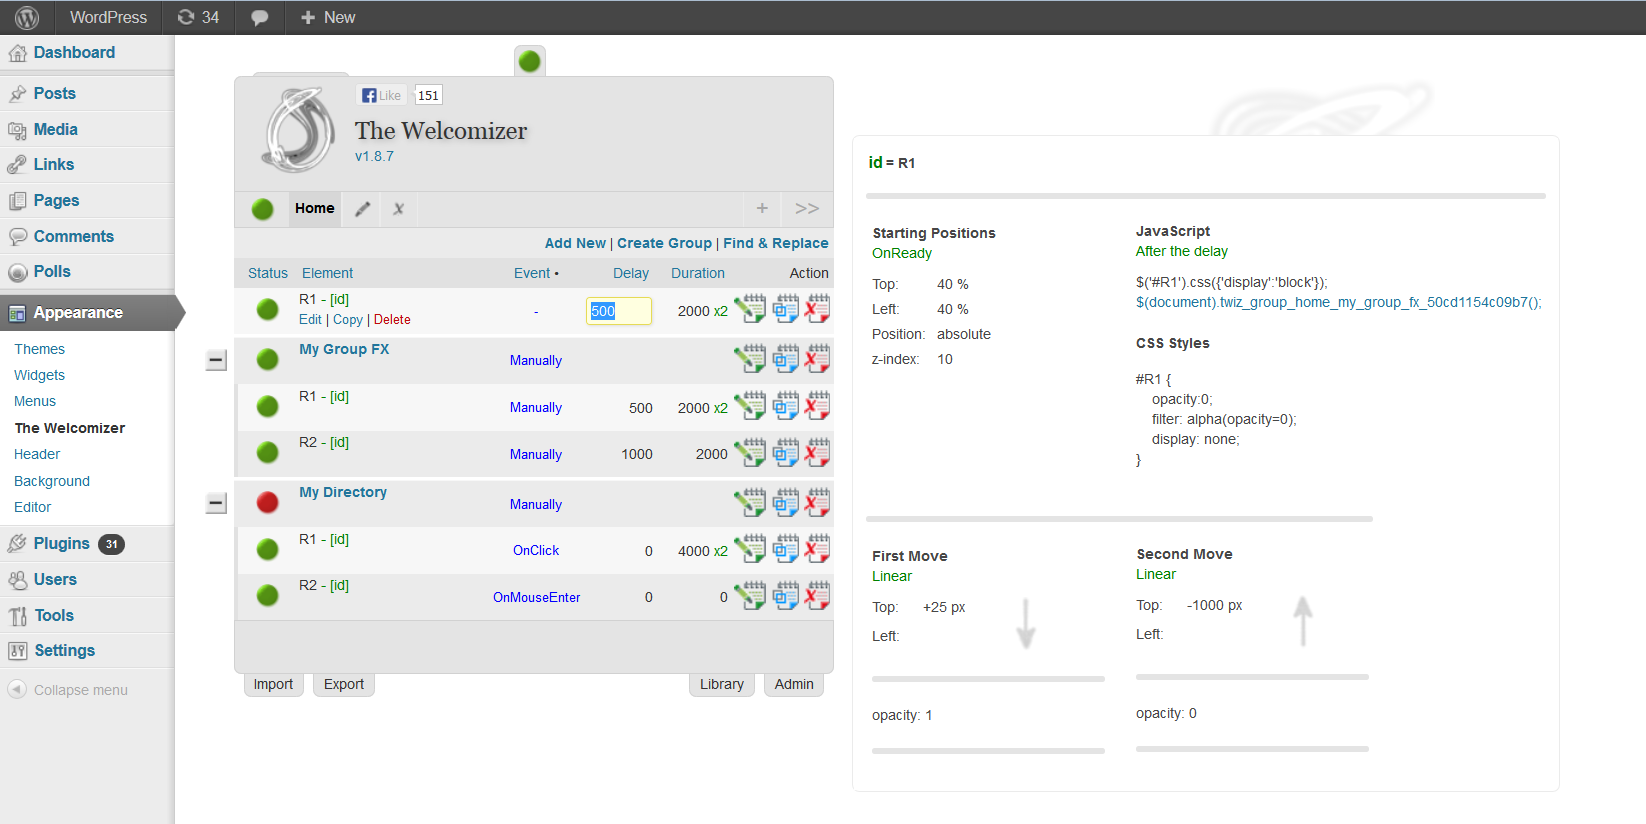
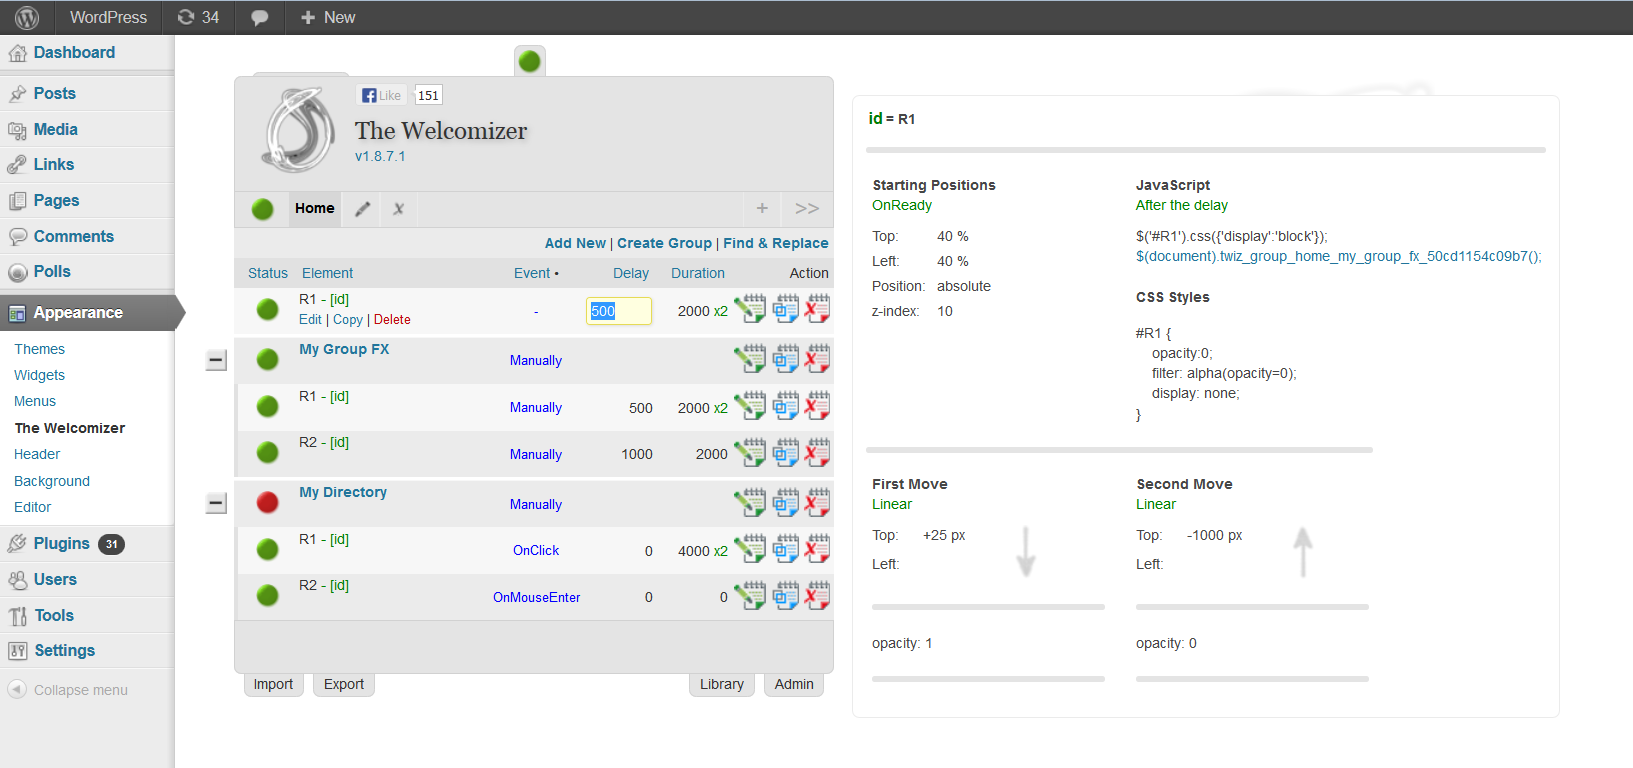
v1.8.7.1
git-svn-id: https://plugins.svn.wordpress.org/the-welcomizer/trunk@712215 b8457f37-d9ea-0310-8a92-e5e31aec5664

diff --git a/skins/_default/twiz-style.css b/skins/_default/twiz-style.css
@@ -614,14 +614,14 @@ div a:hover, td a:hover {
 .twiz-add-element {
    color: #AAAAAA;
 }
-.twiz-table-form, 
-.twiz-table-view {
+.twiz-table-form {
     background-color: #ffffff;    
     padding-top: 10px;
     padding-bottom: 12px;
 }
 .twiz-table-form hr, 
-.twiz-table-view hr {
+.twiz-table-view hr ,
+.twiz-table-view-b hr {
     border-radius: 2px 2px 2px 2px;
     -moz-border-radius-topleft: 2px;
     -moz-border-radius-topright: 2px;
@@ -769,12 +769,16 @@ div a:hover, td a:hover {
     margin-right: 5px;
 }
 .twiz-table-view {
-    padding: 10px;
+    padding: 10px 10px 0px 10px;
+    margin: 1px;
+}
+.twiz-table-view-b {
+    padding: 0px 10px 10px 10px;
     margin: 1px;
 }
 .twiz-view-td-left {
     width: 200px;
-    padding: 2px 20px 2px 2px;
+    padding: 0px 20px 0px 2px;
     font-size: 13px;
 }
 .twiz-view-td-right {

diff --git a/skins/green/twiz-style.css b/skins/green/twiz-style.css
@@ -611,14 +611,14 @@ div a:hover, td a:hover {
 .twiz-add-element {
    color: #AAAAAA;
 }
-.twiz-table-form, 
-.twiz-table-view {
+.twiz-table-form {
     background-color: #ffffff;   
     padding-top: 10px;
     padding-bottom: 12px;
 }
 .twiz-table-form hr, 
-.twiz-table-view hr {
+.twiz-table-view hr ,
+.twiz-table-view-b hr {
     border-radius: 2px 2px 2px 2px;
     -moz-border-radius-topleft: 2px;
     -moz-border-radius-topright: 2px;
@@ -766,12 +766,16 @@ div a:hover, td a:hover {
     margin-right: 5px;
 }
 .twiz-table-view {
-    padding: 10px;
+    padding: 10px 10px 0px 10px;
+    margin: 1px;
+}
+.twiz-table-view-b {
+    padding: 0px 10px 10px 10px;
     margin: 1px;
 }
 .twiz-view-td-left {
     width: 200px;
-    padding: 2px 20px 2px 2px;
+    padding: 0px 20px 0px 2px;
     font-size: 13px;
 }
 .twiz-view-td-right {

diff --git a/skins/blue/twiz-style.css b/skins/blue/twiz-style.css
@@ -611,14 +611,14 @@ div a:hover, td a:hover {
 .twiz-add-element {
    color: #AAAAAA;
 }
-.twiz-table-form, 
-.twiz-table-view {
+.twiz-table-form {
     background-color: #ffffff;  
     padding-top: 10px;
     padding-bottom: 12px;
 }
 .twiz-table-form hr, 
-.twiz-table-view hr {
+.twiz-table-view hr ,
+.twiz-table-view-b hr {
     border-radius: 2px 2px 2px 2px;
     -moz-border-radius-topleft: 2px;
     -moz-border-radius-topright: 2px;
@@ -766,12 +766,16 @@ div a:hover, td a:hover {
     margin-right: 5px;
 }
 .twiz-table-view {
-    padding: 10px;
+    padding: 10px 10px 0px 10px;
+    margin: 1px;
+}
+.twiz-table-view-b {
+    padding: 0px 10px 10px 10px;
     margin: 1px;
 }
 .twiz-view-td-left {
     width: 200px;
-    padding: 2px 20px 2px 2px;
+    padding: 0px 20px 0px 2px;
     font-size: 13px;
 }
 .twiz-view-td-right {

diff --git a/skins/red/twiz-style.css b/skins/red/twiz-style.css
@@ -611,14 +611,14 @@ div a:hover, td a:hover {
 .twiz-add-element {
    color: #AAAAAA;
 }
-.twiz-table-form, 
-.twiz-table-view {
+.twiz-table-form {
     background-color: #ffffff;  
     padding-top: 10px;
     padding-bottom: 12px;
 }
 .twiz-table-form hr, 
-.twiz-table-view hr {
+.twiz-table-view hr ,
+.twiz-table-view-b hr {
     border-radius: 2px 2px 2px 2px;
     -moz-border-radius-topleft: 2px;
     -moz-border-radius-topright: 2px;
@@ -766,12 +766,16 @@ div a:hover, td a:hover {
     margin-right: 5px;
 }
 .twiz-table-view {
-    padding: 10px;
+    padding: 10px 10px 0px 10px;
+    margin: 1px;
+}
+.twiz-table-view-b {
+    padding: 0px 10px 10px 10px;
     margin: 1px;
 }
 .twiz-view-td-left {
     width: 200px;
-    padding: 2px 20px 2px 2px;
+    padding: 0px 20px 0px 2px;
     font-size: 13px;
 }
 .twiz-view-td-right {

diff --git a/skins/yellow/twiz-style.css b/skins/yellow/twiz-style.css
@@ -611,14 +611,14 @@ div a:hover, td a:hover {
 .twiz-add-element {
    color: #AAAAAA;
 }
-.twiz-table-form, 
-.twiz-table-view {
+.twiz-table-form {
     background-color: #ffffff;  
     padding-top: 10px;
     padding-bottom: 12px;
 }
 .twiz-table-form hr, 
-.twiz-table-view hr {
+.twiz-table-view hr,
+.twiz-table-view-b hr {
     border-radius: 2px 2px 2px 2px;
     -moz-border-radius-topleft: 2px;
     -moz-border-radius-topright: 2px;
@@ -766,12 +766,16 @@ div a:hover, td a:hover {
     margin-right: 5px;
 }
 .twiz-table-view {
-    padding: 10px;
+    padding: 10px 10px 0px 10px;
+    margin: 1px;
+}
+.twiz-table-view-b {
+    padding: 0px 10px 10px 10px;
     margin: 1px;
 }
 .twiz-view-td-left {
     width: 200px;
-    padding: 2px 20px 2px 2px;
+    padding: 0px 20px 0px 2px;
     font-size: 13px;
 }
 .twiz-view-td-right {

diff --git a/includes/twiz.class.php b/includes/twiz.class.php
@@ -824,8 +824,8 @@ class Twiz{
         $pluginDir = str_replace('/includes/','',$pluginDir);
 
         /* Twiz variable configuration */
-        $this->version    = '1.8.7';
-        $this->cssVersion = '1-44';
+        $this->version    = '1.8.7.1';
+        $this->cssVersion = '1-45';
         $this->dbVersion  = '3.01';
         $this->pluginUrl  = $pluginUrl;
         $this->pluginDir  = $pluginDir;
@@ -2056,7 +2056,7 @@ $htmlview .='<tr><td colspan="2"><hr></td></tr>
     
         if($hasMovements) {
 
-            $htmlview .= '<table class="twiz-table-view" cellspacing="0" cellpadding="0">
+            $htmlview .= '<table class="twiz-table-view-b" cellspacing="0" cellpadding="0">
         <tr><td colspan="2"><hr></td></tr>
 <tr><td class="twiz-view-td-left" valign="top"'.$colspan2.'>
 <table>

diff --git a/twiz-index.php b/twiz-index.php
@@ -1,7 +1,7 @@
 <?php
 /*
 Plugin Name: The Welcomizer
-Version: 1.8.7
+Version: 1.8.7.1
 Plugin URI: http://www.sebastien-laframboise.com/wordpress/plugins-wordpress/the-welcomizer
 Description: This plugin allows you to animate your blog using jQuery effects. (100% AJAX) + .js/.css Includer.
 Author: S&#233;bastien Laframboise
